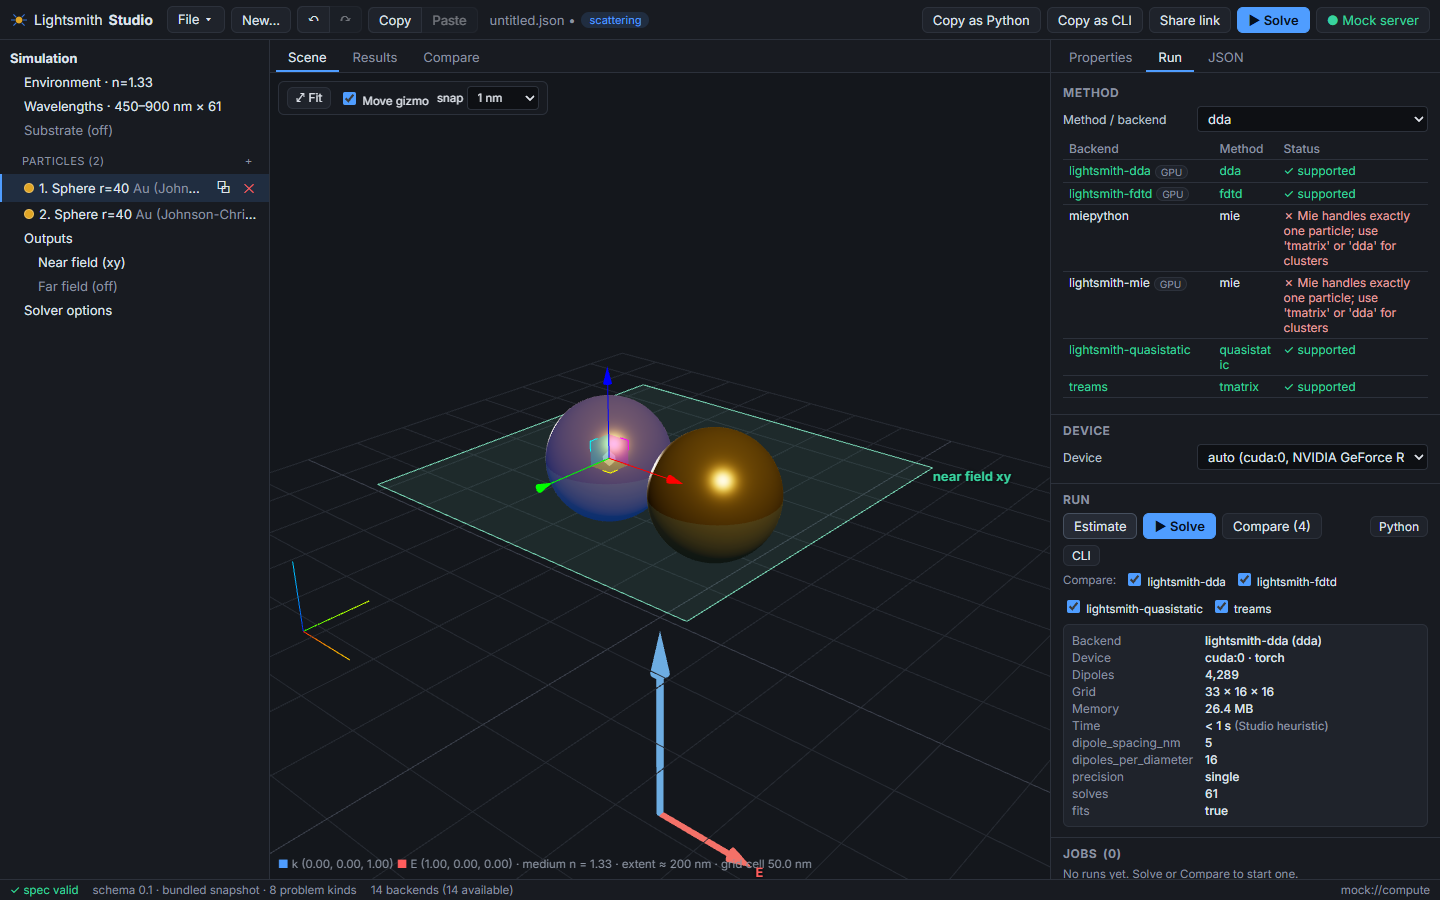
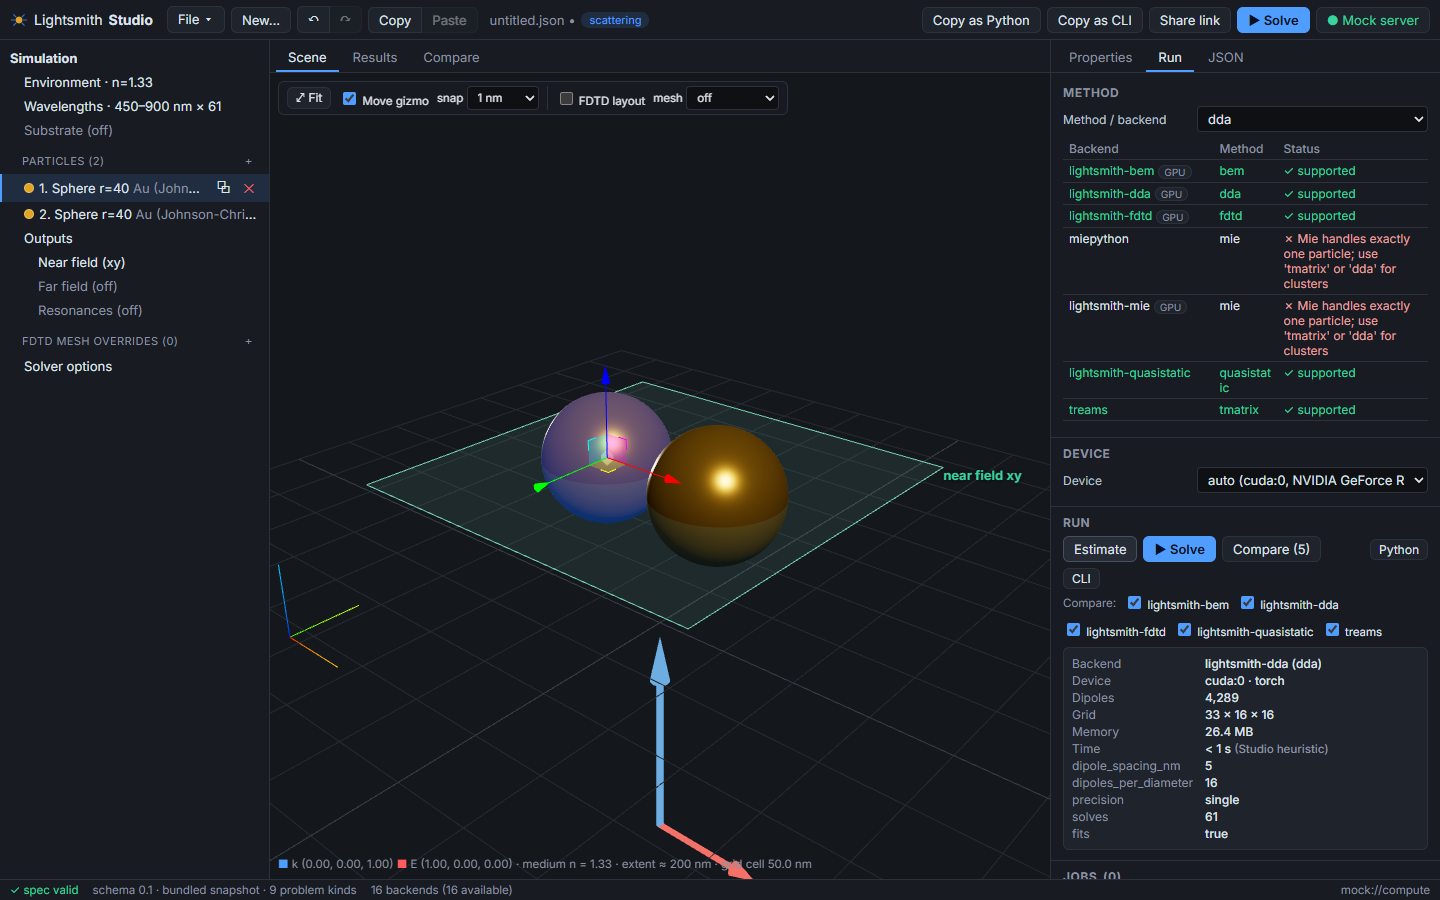
Document the FDTD set-up and the proposed layout API; refresh screenshots
README: the scattering and emission rows of the problem-kind table, an
"FDTD set-up" section (objects from the spec and from the library's
layout, mesh preview, where the layout comes from), the FDTD templates,
the mock's FDTD answers, and the new tests.

API_ASSUMPTIONS.md: the emission result kind and resonances, and
"Proposed: FDTD layout": the gap (no public call returns node planes or
boxes) and a small library API (ls.layout / lightsmith layout /
POST /v1/layout / MCP get_layout) with scripts/fdtd_layout.py as its
reference implementation.

Screenshots from the e2e runs, including the new fdtd-* and emission
ones.

diff --git a/README.md b/README.md
@@ -22,7 +22,7 @@ the library appears automatically, with generated editors.
 
 | Kind | Scene editor | Result viewer |
 |---|---|---|
-| `scattering` | 3D viewport: particles to scale, move gizmo, substrate, k/E arrows, near-field plane | spectra (C or Q; ext/sca/abs), compare, near-field heatmap, far-field polar/3D |
+| `scattering` | 3D viewport: particles to scale, move gizmo, substrate, k/E arrows, near-field plane; FDTD layout (TFSF box, flux boxes, CPML, mirror planes, mesh overrides, Gaussian-beam focus and waist) and mesh slice | spectra (C or Q; ext/sca/abs), compare, near-field heatmap, far-field polar/3D, resonance (Q) table |
 | `layer_stack` | layer stack editor: add from presets, reorder, remove; superstrate and substrate; n at mid-band | R/T/A vs λ per angle and polarization, R/T/A vs angle map |
 | `periodic` | patterned-layer stack, plus a 2D unit-cell editor with neighbouring cells shown | R/T/A plus diffraction-order efficiencies |
 | `mode` | 2D cross-section editor: drag structures, simulation window | n_eff/n_g/loss/TE-fraction/A_eff table, n_eff(λ), field heatmaps (\|E\|², \|H\|², components) with outlines |
@@ -30,10 +30,14 @@ the library appears automatically, with generated editors.
 | `bands` | unit-cell editor with lattice vectors and tiled neighbours; 3D crystals shown in top view | band diagram with k labels, gaps shaded per polarization and complete gaps, gap table (a/λ and nm) |
 | `circuit` | netlist graph: instances, connections, external ports | S-parameters, as for devices |
 | `optimization` | the device top view plus hatched design regions | objective and binarization history, S-parameters of the final design |
+| `emission` | the 3D viewport: particles, and the dipole with its moment (move gizmo); FDTD layout and mesh slice | Purcell factor, radiative and non-radiative decay vs λ (linear or log), quantum efficiency, radiation-pattern polar cuts |
 
 - **Starting points.** Every kind has an *Example*, which the library solved when the snapshot was
   taken (`scripts/make_fixtures.py`), and a *Blank* start from schema defaults. Scattering also has
-  eight templates: sphere, dimer, core–shell, rod, spheroid, trimer, Si sphere, and sphere on glass.
+  eight templates (sphere, dimer, core–shell, rod, spheroid, trimer, Si sphere, sphere on glass) and four
+  FDTD set-ups that the library has laid out and solved: a dimer gap with a mesh override and two mirror
+  planes, a graded-grid plasmon ring-down with its resonances, a focused Gaussian beam, and a sphere on glass
+  at 45°.
 - **Editing in the scene.** Clicking an object in the scene selects it in the object tree. Its
   Properties panel shows the generated form, with the material picker for every material field.
   Drags are undoable spec ops.
@@ -49,6 +53,56 @@ the library appears automatically, with generated editors.
   form `?spec=`, `?spec_url=` and `lightsmith-studio://open?spec=`. "Copy as Python / CLI / curl /
   MCP" is available, and `window.studio` scripting with a live JSON panel.
 
+## FDTD set-up
+
+![FDTD layout: graded grid, mesh override, mirror planes](docs/screenshots/fdtd-layout.png)
+
+For scattering and emission problems the 3D view draws the FDTD simulation objects, the way a commercial FDTD
+CAD tool does, but without computing any of them itself.
+
+- **Objects from the spec**, editable in place:
+  - mesh-override boxes (`options.fdtd.mesh_override`), listed in the object tree, moved with the gizmo like
+    particles, edited with the generated form of the library's `MeshOverride` model. The form shows cell
+    counts and the region the library actually refines;
+  - the Gaussian beam: focus, waist ring, axis, and the paraxial 1/e² envelope in the E and H planes. The
+    environment editor switches plane wave ↔ Gaussian beam;
+  - the emission dipole and its moment, moved with the gizmo.
+- **Objects from the library's layout**, shown with the **FDTD layout** toggle (on when the spec has FDTD
+  options, the method is FDTD, or only FDTD can run it):
+  - TFSF box, total-field and scattered-field flux boxes (the radiated-power box for emission);
+  - CPML slabs and thickness;
+  - regions refined by `grid: "auto"`;
+  - the PEC/PMC mirror planes `symmetry: "auto"` picks, with the run's size reduction and why other planes
+    were not used;
+  - the legend: grid kind, shape, cells (and cells after halving), cell sizes, grading ratio, and the
+    library's refusal when it would not run the spec (for example a graded grid with a Gaussian beam).
+- **Mesh preview.** *mesh* picks an xy, xz or yz slice and its position, and draws the library's Yee node
+  planes on it, bright where cells are fine. *⟂ view* looks along the slice. Particles turn translucent so the
+  grid shows through.
+
+![Mesh slice through the dimer gap](docs/screenshots/fdtd-mesh.png)
+
+Where the layout comes from (`src/state/layout.ts`):
+1. the compute server's `POST /v1/layout`, which Studio proposes to the library (see API_ASSUMPTIONS.md,
+   "Proposed: FDTD layout");
+2. in development, the Vite dev server's **library bridge**: it runs `scripts/fdtd_layout.py` against
+   `../lightsmith` (needs `uv`; off with `STUDIO_LIBRARY_BRIDGE=0`). That script is the reference
+   implementation of the proposal, built on the library's own planning code;
+3. the server's `POST /v1/estimate`, which gives the mirror planes only;
+4. in the mock, the snapshot of the FDTD templates as shipped.
+
+While a new layout is on its way, the last one stays on screen, marked "before your last edit". A spec the
+library would refuse is still drawn, with its reason: below, a Gaussian beam with a mesh override and
+`symmetry: "auto"` (graded grids take plane waves only, and beams run without mirror planes), laid out
+through the library bridge (`e2e/fdtd-library.spec.ts`).
+
+![Gaussian beam with a mesh override: drawn, with the library's refusal](docs/screenshots/fdtd-beam-override.png)
+
+| | |
+|---|---|
+| ![Gaussian beam](docs/screenshots/fdtd-beam.png) | ![Resonance table](docs/screenshots/fdtd-resonances.png) |
+| A focused beam: focus, waist and envelope; the legend says why the run uses no mirror planes. | The ring-down of a plasmonic sphere: resonance wavelengths, Q, linewidths, amplitudes. |
+
 ## Run it (web, development)
 
 ```bash
@@ -63,6 +117,8 @@ uses the **built-in mock server** and says so in the status bar. In the mock:
   <0.5 %), quasi-static otherwise.
 - Every other kind answers with the library's solved example for that kind. The result carries a
   warning saying it is not a solution of your spec.
+- The FDTD templates, unedited, get the library's own FDTD solution and layout from the snapshot. Gaussian
+  beams and resonances of any other spec need a compute server.
 
 **Against a real local server:**
 
@@ -192,13 +248,16 @@ Embedding pages can `postMessage({studio: "getSpec"|"setSpec"|"apply"|"validate"
   schema, and that every solved example's result kind has a viewer.
 - **Snapshot.** `npm run sync:library` refreshes the library snapshot: schema, backends with options
   schemas, and bundled n/k data. `uv run --project ../lightsmith python scripts/make_fixtures.py`
-  re-solves the per-kind examples. It is slow: RCWA takes minutes.
+  re-solves the per-kind examples, and lays out and solves the FDTD templates
+  (`src/generated/fdtd_templates.json`, `fixtures/fdtd/`; on the GPU when there is one). It is slow: RCWA
+  takes minutes. `make_fixtures.py fdtd emission` redoes only those.
 
 ## Tests
 
 ```bash
-npm test                                   # Vitest: logic, parity, kinds, auth, config
-npm run test:e2e                           # Playwright, against the mock: scattering flows + every problem kind
+npm test                                   # Vitest: logic, parity, kinds, FDTD snapshots, auth, config
+npm run test:e2e                           # Playwright, against the mock: scattering flows, FDTD set-up, every problem kind
+STUDIO_LIBRARY_BRIDGE=1 npx playwright test fdtd-library   # FDTD layouts from ../lightsmith through the dev-server bridge
 STUDIO_COMPUTE_URL=http://localhost:8200 npx playwright test real-server   # against a live compute server
 ```
 
@@ -211,9 +270,10 @@ src/config/      brand.ts (names), runtime.ts (deployment config)
 src/schema/      schema helpers, generated form, validation
 src/state/       spec store (undo/redo, ops), connection, jobs, kinds, templates, actions
 src/api/         compute + materials clients, in-browser mock server
-src/components/  viewport (3D), kinds/ (2D/stack/netlist scenes), viewers/ (result kinds), panels, dialogs
+src/components/  viewport (3D), fdtd/ (FDTD objects in 3D), kinds/ (2D/stack/netlist scenes), viewers/ (result kinds), panels, dialogs
 src/lib/         auth (OIDC / Community), codegen, deep links, files, CSV, scripting
-src/generated/   library snapshot and solved examples
+src/generated/   library snapshot, solved examples, FDTD templates with their layouts
+scripts/         sync_library.py, make_fixtures.py, fdtd_layout.py (the library's FDTD layout of a spec)
 docker/          nginx template, runtime-config entrypoint
 src-tauri/       desktop shell
 e2e/             Playwright flows

diff --git a/API_ASSUMPTIONS.md b/API_ASSUMPTIONS.md
@@ -37,7 +37,8 @@ or runtime `config.js` (Docker `STUDIO_*`).
 | `GET /v1/backends` | — | `name`, `method`, `problem_kinds`, `gpu`, `available`, `unavailable_reason`, `license` and `citation` feed the method list and the support table. `options_schema` generates the per-method options forms. While the server sends `null`, Studio uses the bundled snapshot's schema for the same backend name. | verified |
 | `POST /v1/supports` | `{simulation}` | `[{name, method, available, unavailable_reason, supported, reason}]`. On 404 or 405 (older servers) Studio falls back to one `/v1/estimate` per backend, cached per spec. | contract (fallback verified) |
 | `GET /v1/doctor` | — | Device menu and settings. | verified |
-| `POST /v1/estimate` | `{simulation, method, device}` | The whole dict, with labels for known keys. Runtime comes from `estimated_runtime_s`, else `seconds_estimate`, else a labelled heuristic. | verified |
+| `POST /v1/estimate` | `{simulation, method, device}` | The whole dict, with labels for known keys. Runtime comes from `estimated_runtime_s`, else `seconds_estimate`, else a labelled heuristic. For FDTD scattering, `symmetry` (`mirrors`, `planes_nm`, `reduction`, `skipped`) and `graded_grid` are also the fallback for the 3D mirror planes when the server has no `/v1/layout`. | verified |
+| `POST /v1/layout` | `{simulation, method: "fdtd"}` | The FDTD layout for the 3D view and the mesh preview; see "Proposed: FDTD layout" below. On 404 or 405 Studio falls back to the dev server's library bridge (development only), then to `/v1/estimate`. | **proposed** |
 | `POST /v1/jobs` → 202 | `{simulation, kind: "solve"\|"compare", method, methods, reference, device, label}` | `job_id` (or `id`) and `status`. A 422 at submit is shown as a toast. Optimization problems are submitted as `solve`, which the API treats like `optimize`. | verified (scattering) |
 | `GET /v1/jobs/{id}` | — | `status`, `progress`, `stage`, `message`, `error`, `result`. When `result` is null on success, Studio fetches `result_url`. | verified |
 | `DELETE /v1/jobs/{id}` | — | Cancel. Falls back to `POST …/cancel`. | contract |
@@ -54,9 +55,79 @@ servers:
 | `sparameters` | `wavelengths_nm`, `ports`, `s_real`/`s_imag` (indexed `[wl][out][in]`) |
 | `bands` | `k_distance`, `k_labels` (`{index: label}`), `frequencies{pol: [k][band]}` (a/λ) |
 | `optimization` | `history[]` with `iteration`, `objective`, `binarization`; `objective_initial`, `objective_final`, `objective_binary`; `structures`; `sparameters` |
+| `emission` | `wavelengths_nm`, `purcell`, `radiative`, `efficiency`; `radiation_pattern[]` with `wavelength_nm`, `theta_deg`, `phi_deg`, `dp_domega` (`[theta][phi]`, over P0). Studio derives only the non-radiative part, `purcell − radiative`. |
+
+`cross_sections` results may also carry `resonances[]` (`wavelength_nm`, `energy_ev`, `q`, `amplitude`), from
+time-domain solvers when `outputs.resonances` is set; Studio shows them as a Q table.
 
 `compare` returns `{reference, results: {name: <any kind>}, relative_difference}`. For
 non-scattering kinds Studio overlays the per-method results in the kind's viewer.
+
+## Proposed: FDTD layout (library and compute API)
+
+**The gap.** Studio draws the FDTD simulation objects (TFSF box, flux monitors, CPML, auto-refined regions,
+mirror planes) and previews the Yee grid on a slice. It must not compute them itself: they depend on the
+library's sizing rules (padding, gaps, CPML cells, `grid: "auto"` refinement, grading, symmetry detection), and
+a TypeScript copy would drift from the solver. Today the library exposes none of this:
+
+- `lightsmith estimate` / `POST /v1/estimate` (FDTD) returns `grid` (the *run's* shape, halved by symmetry),
+  `cells`, `spacing_nm`, `symmetry` (with `planes_nm`) and, on graded grids, `graded_grid` (min/max spacing,
+  `max_ratio`). That is enough for the mirror planes, not for node planes or boxes.
+- The node planes and boxes exist only inside the private planning code
+  (`lightsmith.backends._fdtd.scattering.plan` → `Layout`; `emission.plan`).
+
+**Proposal.** A small, read-only call next to `estimate`, which never runs the solver:
+
+```python
+ls.layout(problem, method="fdtd") -> dict          # Backend.layout(sim), optional per backend
+```
+```bash
+lightsmith layout spec.json [--method fdtd]        # JSON on stdout, errors as for estimate
+```
+```http
+POST /v1/layout  {"simulation": {...}, "method": "fdtd"}   ->  200 <the dict>   (lightsmith-cloud)
+```
+and an MCP tool `get_layout` with the same arguments. The dict, for scattering and emission problems (the
+whole grid, before any mirror halving; world coordinates in nm):
+
+```json
+{
+  "backend": "lightsmith-fdtd", "method": "fdtd", "problem_kind": "scattering",
+  "grid": {"kind": "uniform | graded", "base_spacing_nm": 8.0, "shape": [81, 81, 81], "cells": 531441,
+           "nodes_nm": [[...x], [...y], [...z]], "spacing_min_nm": [2, 2, 2], "spacing_max_nm": [8, 8, 8],
+           "max_ratio": 1.25},
+  "domain_nm": {"lo_nm": [...], "hi_nm": [...]},
+  "pml": {"cells": 10, "inner_lo_nm": [...], "inner_hi_nm": [...]},
+  "boxes": [{"name": "tfsf", "label": "...", "lo_nm": [...], "hi_nm": [...]},
+            {"name": "flux_total", ...}, {"name": "flux_scattered", ...}],
+  "regions": [{"source": "auto", "particle": 0, "lo_nm": [...], "hi_nm": [...], "spacing_nm": [2, 2, 2]},
+              {"source": "mesh_override", "index": 0, ...}],
+  "symmetry": {"mirrors": {"x": "antisymmetric (PEC)"}, "reduction": 2, "planes_nm": {"x": 0.0}, "skipped": "..."},
+  "run_cells": 142884,
+  "warnings": [],
+  "error": null
+}
+```
+
+- Emission problems have one box, `flux_radiated` (the closed radiated-power box), and no mirror planes.
+- `error` carries the library's refusal (for example a graded grid with a Gaussian beam) while the geometry is
+  still returned, so the user sees what they built and why it will not run. Errors that leave no geometry are
+  raised as usual (422 over HTTP).
+- Sizes: `nodes_nm` is one float per node plane (a few hundred per axis), never per cell.
+- Periodic and layer-stack problems (a unit cell) could follow with the same shape; Studio does not ask for
+  them yet.
+
+**Reference implementation.** `scripts/fdtd_layout.py` in this repository builds exactly this dict from the
+library's private planning functions, so it reuses the solver's code path rather than copying it. It is what
+Studio uses until the library ships `layout`:
+
+- the Vite dev server runs it for `POST /__library/v1/layout` (`vite.config.ts`, development only, needs `uv`
+  and `../lightsmith`; off with `STUDIO_LIBRARY_BRIDGE=0`);
+- `scripts/make_fixtures.py` snapshots the layouts of the FDTD templates (`src/generated/fdtd_templates.json`),
+  which the in-browser mock serves for those exact specs.
+
+Moving it into the library is a matter of putting `layout()` beside `NativeFDTD.estimate` and registering the
+CLI, MCP and HTTP routes; the private imports in the script then go away.
 
 ## Materials (materials-db, `http://localhost:8100`)
 
